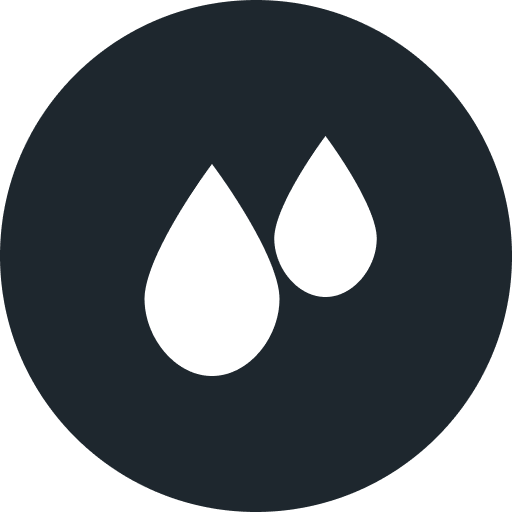
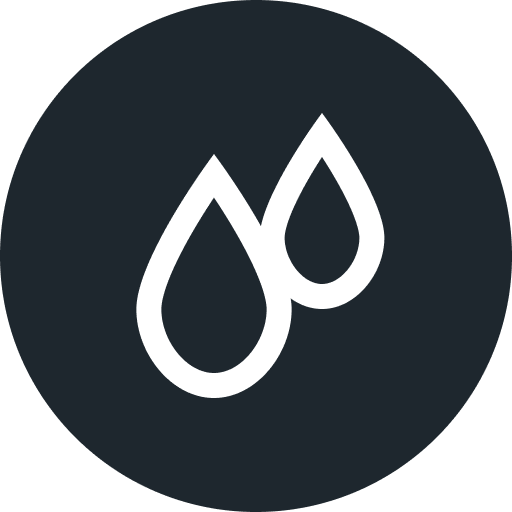
Completed basic design

Changed region(s): [[0.25, 0.2188, 0.75, 0.7812]]

diff --git a/src/utilities/BottomMenuIcons.js b/src/utilities/BottomMenuIcons.js
@@ -1,30 +1,46 @@
 // ---------Inbuilt components & modules---------
-import { View } from "react-native";
+import { View, Image } from "react-native";
 
 // ---------Third-party components & modules---------
 import * as SolidIcons from "react-native-heroicons/solid";
 import * as OutIcons from "react-native-heroicons/outline";
 
 // ---------Constants---------
-import { Colors } from "../constants";
+import { Colors, Images } from "../constants";
 
 export default function BottomMenuIcons(route, focused) {
   let icon;
   if (route.name == "Withering") {
     icon = focused ? (
-      <SolidIcons.Squares2X2Icon size="30" color={Colors.light} />
+      <View style={{ width: 30, height: 30 }}>
+        <Image
+          source={Images.fermentation}
+          style={{ width: "100%", height: "100%" }}
+        />
+      </View>
     ) : (
-      <OutIcons.Squares2X2Icon size="30" strokeWidth={2} color={Colors.dark} />
+      <View style={{ width: 40, height: 40 }}>
+        <Image
+          source={Images.fermentation_s}
+          style={{ width: "100%", height: "100%" }}
+        />
+      </View>
     );
   } else if (route.name == "Fermentation") {
     icon = focused ? (
-      <SolidIcons.Square3Stack3DIcon size="30" color={Colors.light} />
+      <View style={{ width: 30, height: 30 }}>
+        <Image
+          source={Images.withering}
+          style={{ width: "100%", height: "100%" }}
+        />
+      </View>
     ) : (
-      <OutIcons.Square3Stack3DIcon
-        size="30"
-        strokeWidth={2}
-        color={Colors.dark}
-      />
+      <View style={{ width: 40, height: 40 }}>
+        <Image
+          source={Images.withering_s}
+          style={{ width: "100%", height: "100%" }}
+        />
+      </View>
     );
   }
   let btnCls = focused ? Colors.dark : "";

diff --git a/src/screens/FermentationResult.js b/src/screens/FermentationResult.js
@@ -73,7 +73,7 @@ export default function FermentationResult({ navigation }) {
               justifyContent: "center",
               alignItems: "center",
               paddingHorizontal: 30,
-              backgroundColor: Colors.secondary,
+              backgroundColor: Colors.orange,
               height: 200,
               width: 200,
               borderRadius: 100,
@@ -81,7 +81,7 @@ export default function FermentationResult({ navigation }) {
           >
             <Text
               style={{
-                color: Colors.light,
+                color: Colors.dark,
                 fontSize: 22,
                 fontWeight: "bold",
                 textAlign: "center",
@@ -92,7 +92,7 @@ export default function FermentationResult({ navigation }) {
             </Text>
             <Text
               style={{
-                color: Colors.light,
+                color: Colors.dark,
                 fontSize: 12,
                 textAlign: "center",
               }}
@@ -131,7 +131,7 @@ export default function FermentationResult({ navigation }) {
                 textAlign: "center",
               }}
             >
-              based on the color of Tea leaves.
+              based on the color of the sample.
             </Text>
           </View>
         </ImageBackground>

diff --git a/src/components/organs/ProcessCard.js b/src/components/organs/ProcessCard.js
@@ -3,11 +3,15 @@ import { Text, View, TouchableOpacity, Image } from "react-native";
 
 // ---------Third-party components & modules---------
 import * as Icons from "react-native-heroicons/solid";
+import { useNavigation } from "@react-navigation/native";
 
 // ---------Constants---------
 import { Colors, Images } from "../../constants";
 
 export default function ProcessCard() {
+  // Navigation
+  const navigation = useNavigation();
+
   return (
     <View
       style={{
@@ -131,7 +135,7 @@ export default function ProcessCard() {
               borderRadius: 50,
               marginRight: 5,
             }}
-            onPress={() => navigation.navigate("InnerNav")}
+            onPress={() => navigation.navigate("FermentationTime")}
           >
             <Icons.ClockIcon size="15" color={Colors.light} />
           </TouchableOpacity>
@@ -141,7 +145,7 @@ export default function ProcessCard() {
               padding: 8,
               borderRadius: 50,
             }}
-            onPress={() => navigation.navigate("InnerNav")}
+            onPress={() => navigation.navigate("FermentationResult")}
           >
             <Icons.RocketLaunchIcon size="15" color={Colors.light} />
           </TouchableOpacity>

diff --git a/src/screens/Withering.js b/src/screens/Withering.js
@@ -75,18 +75,23 @@ export default function Withering({ navigation }) {
           >
             <TouchableOpacity
               style={{
-                backgroundColor: Colors.orange,
+                backgroundColor: Colors.dark,
                 paddingVertical: 15,
                 paddingHorizontal: 30,
                 borderRadius: 30,
+                flexDirection: "row",
+                justifyContent: "center",
+                alignItems: "center",
               }}
               onPress={() => navigation.navigate("WitheringResult")}
             >
+              <Icons.CameraIcon size="20" color={Colors.light} />
               <Text
                 style={{
-                  color: Colors.dark,
+                  color: Colors.light,
                   fontSize: 14,
                   textAlign: "center",
+                  marginLeft: 5,
                 }}
               >
                 Withering

diff --git a/src/screens/Welcome.js b/src/screens/Welcome.js
@@ -56,7 +56,7 @@ export default function Welcome({ navigation }) {
                 paddingVertical: 15,
                 paddingHorizontal: 20,
                 borderRadius: 30,
-                backgroundColor: Colors.orange,
+                backgroundColor: Colors.secondary,
               }}
               onPress={() => navigation.navigate("Login")}
             >
@@ -64,7 +64,7 @@ export default function Welcome({ navigation }) {
                 style={{
                   fontSize: 12,
                   textAlign: "center",
-                  color: Colors.dark,
+                  color: Colors.light,
                 }}
               >
                 Get Started

diff --git a/src/screens/Login.js b/src/screens/Login.js
@@ -102,7 +102,7 @@ export default function Login({ navigation }) {
             <TouchableOpacity
               style={{
                 width: "100%",
-                backgroundColor: Colors.orange,
+                backgroundColor: Colors.secondary,
                 paddingVertical: 15,
                 paddingHorizontal: 20,
                 borderRadius: 30,
@@ -111,7 +111,7 @@ export default function Login({ navigation }) {
             >
               <Text
                 style={{
-                  color: Colors.dark,
+                  color: Colors.light,
                   fontSize: 14,
                   textAlign: "center",
                 }}

diff --git a/src/constants/Images.js b/src/constants/Images.js
@@ -6,6 +6,10 @@ const Images = {
   dhool: require("../../assets/images/dhool.png"),
   temp: require("../../assets/images/temp.png"),
   humidity: require("../../assets/images/humidity.png"),
+  fermentation: require("../../assets/images/fermentation.png"),
+  fermentation_s: require("../../assets/images/fermentation_s.png"),
+  withering: require("../../assets/images/withering.png"),
+  withering_s: require("../../assets/images/withering_s.png"),
 };
 
 export default Images;
